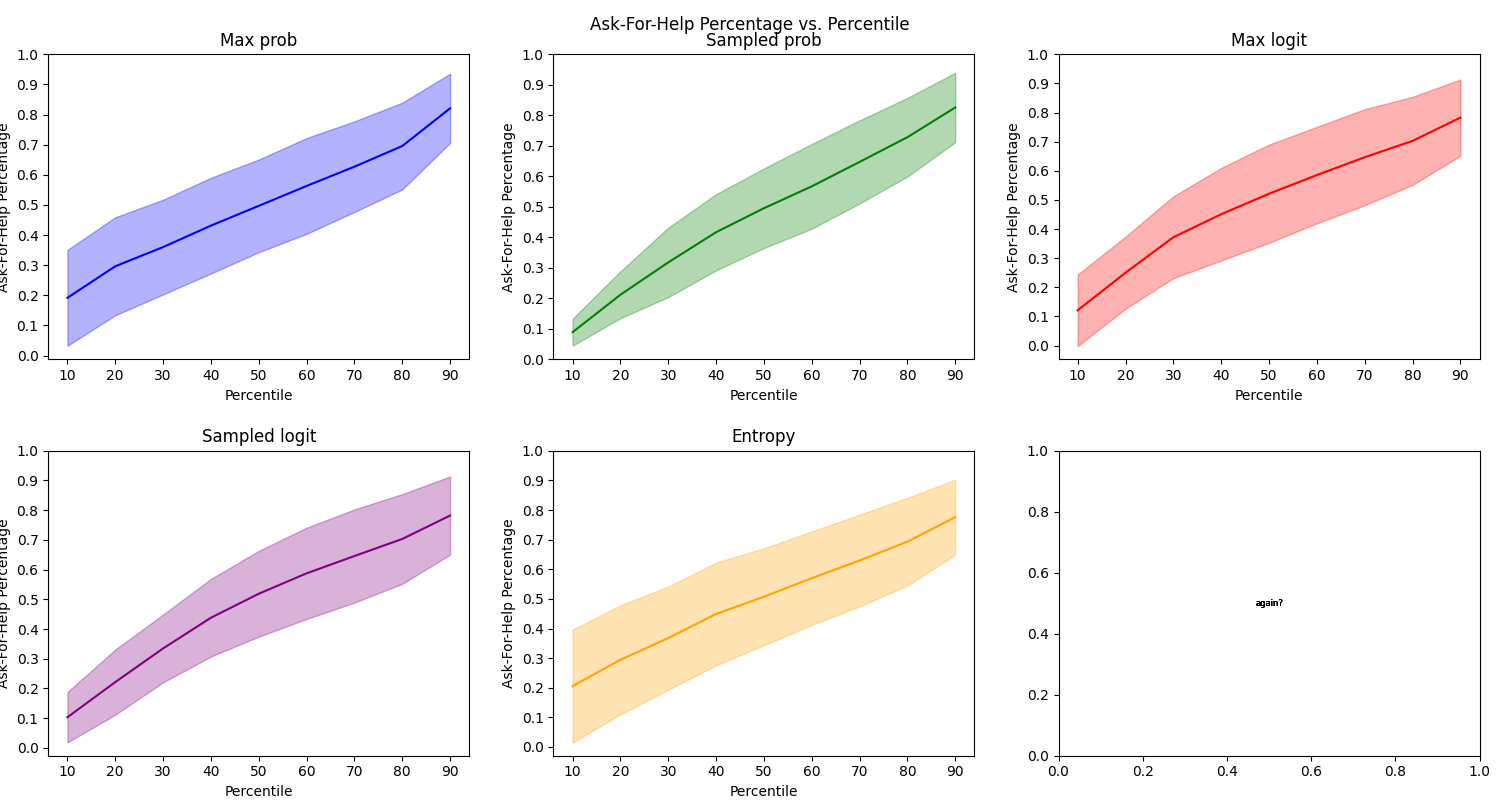
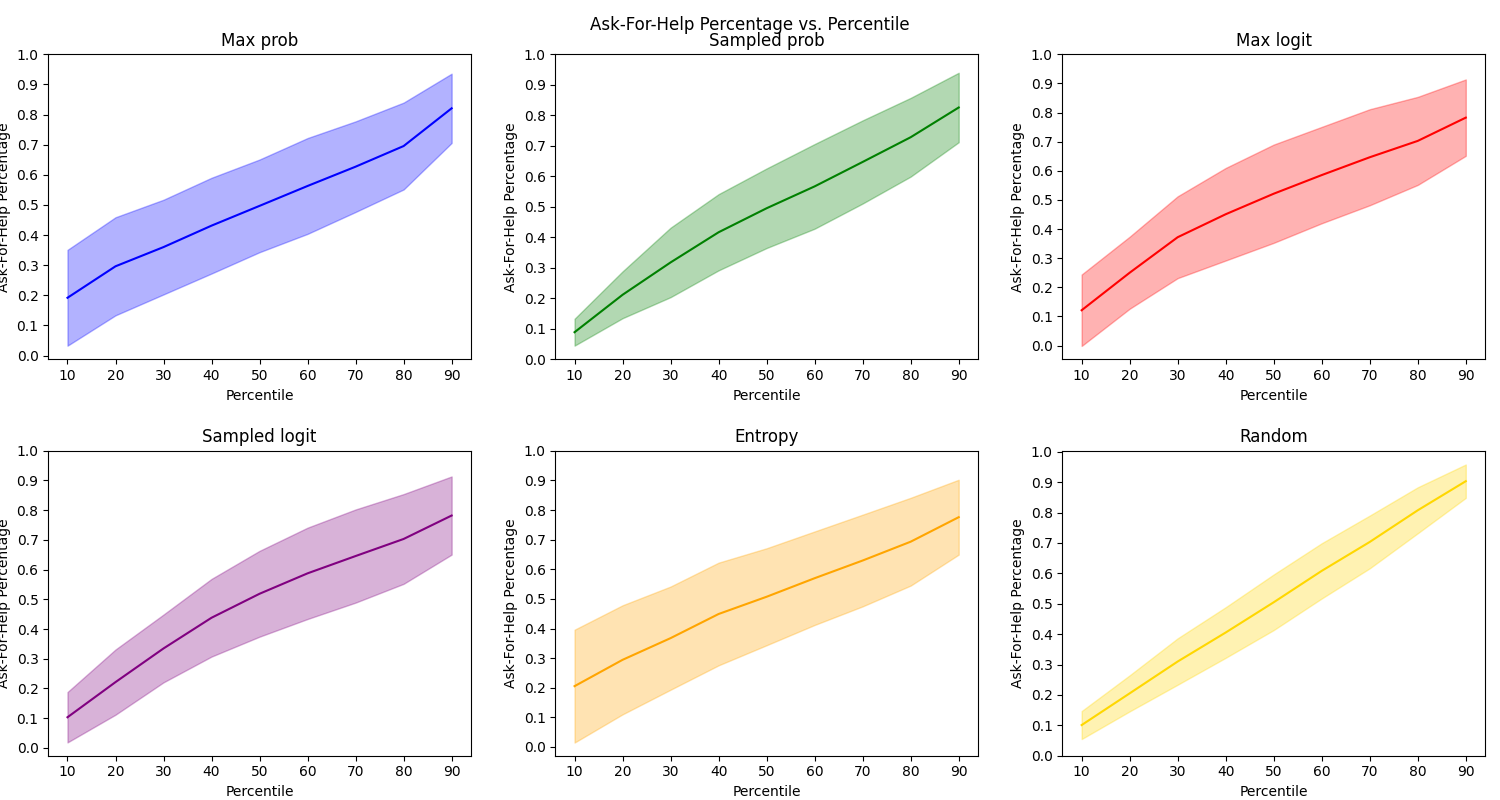
updates

diff --git a/plot_ask_for_help_plots.py b/plot_ask_for_help_plots.py
@@ -9,11 +9,13 @@ import re
 PLOT_PERF_VS_PERC = 1  # performance vs percentile
 PLOT_PROP_VS_PERC = 2  # proportion of asking for help vs percentile
 PLOT_PERF_VS_PROP = 3  # performance vs proportion of asking for help
-PLOT_COST_BREAKEVEN = 4  # how many times ask for help to break even penalties
+PLOT_PROP_VS_TIME = 4  # proportion of asking for help vs run timestep
+PLOT_COST_BREAKEVEN = 5  # how many times ask for help to break even penalties
 
 
 parser = argparse.ArgumentParser()
-parser.add_argument("--plots", "-p", type = int, nargs = "+", default = [1, 2, 3, 4])
+parser.add_argument("--plots", "-p", type = int, nargs = "+", default = [1, 2, 3, 4, 5])
+parser.add_argument("--bucketed", "-b", action = "store_true")  # only applies to plot 3!
 parser.add_argument("--prefix", type = str, default = "receive_help")
 parser.add_argument("--suffix", type = str, default = "")
 args = parser.parse_args()
@@ -42,19 +44,21 @@ def inf_list_eval(list_str):
 
 
 quant_eval_file_name = "AAA_quant_eval_model_200015872.txt"
-colors = {"max prob": "blue", "sampled prob": "green", "max logit": "red", "sampled logit": "purple", "entropy": "orange"}
-helped_logs = {"max prob": {}, "sampled prob": {}, "max logit": {}, "sampled logit": {}, "entropy": {}}
+colors = {"max prob": "blue", "sampled prob": "green", "max logit": "red", "sampled logit": "purple", "entropy": "orange", "random": "gold"}
+helped_logs = {"max prob": {}, "sampled prob": {}, "max logit": {}, "sampled logit": {}, "entropy": {}, "random": {}}
 log_dir = "logs/procgen/coinrun_aisc"
 for exp_dir in os.listdir(log_dir):
     # CHANGE HERE #
-    if exp_dir.startswith("receive") and exp_dir.endswith("unique_actions"):
+    if exp_dir.startswith("receive") and "unique_actions" not in exp_dir:
         perc = int(re.search(r"(\d+)", exp_dir).group(1))
         if "ent" in exp_dir:
             log_key = "entropy"
         elif "max" in exp_dir:
             log_key = "max prob" if "prob" in exp_dir else "max logit"
-        else:
+        elif "sample" in exp_dir:
             log_key = "sampled prob" if "prob" in exp_dir else "sampled logit"
+        else:
+            log_key = "random"
         render_logs = os.listdir(os.path.join(log_dir, exp_dir))
         helped_logs[log_key][perc] = os.path.join(log_dir, exp_dir, sorted(render_logs)[-1])  # always get last/most updated one
 
@@ -88,12 +92,15 @@ if PLOT_PERF_VS_PERC in args.plots:
 
 
 percentiles = range(10, 91, 10)
+run_portions = [round(k, 1) for k in np.arange(0.1, 1.01, 0.1)]
 if PLOT_PERF_VS_PERC in args.plots:
     fig1, axes1 = plt.subplots(2, 3, figsize = (15, 8))
 if PLOT_PROP_VS_PERC in args.plots:
     fig2, axes2 = plt.subplots(2, 3, figsize = (15, 8))
 if PLOT_PERF_VS_PROP in args.plots:
     fig3, axes3 = plt.subplots(2, 3, figsize = (15, 8))
+if PLOT_PROP_VS_TIME in args.plots:
+    fig4, axes4 = plt.subplots(2, 3, figsize = (15, 8))
 
 i = 0
 mega_mean_timestep_achieved = []
@@ -102,6 +109,7 @@ for metric in helped_logs:
     rew_by_perc = []
     adj_rew_by_perc = []
     help_props_by_perc = []
+    help_asks_by_timestep = {round(k, 1): [] for k in run_portions}
     for perc in percentiles:
         with open(os.path.join(helped_logs[metric][perc], quant_eval_file_name), "r") as f:
             evaluation = f.readlines()
@@ -118,6 +126,18 @@ for metric in helped_logs:
                     for helps in help_times:
                         help_props.append(sum(helps) / len(helps))
                     help_props_by_perc.append(help_props)
+            if PLOT_PROP_VS_TIME in args.plots:
+                if "help times" in line.lower():
+                    help_times = eval(evaluation[-1])
+                    num_segments = 10
+                    for helps in help_times:
+                        run_length = len(helps)
+                        segment_length = run_length // num_segments
+                        for k in range(num_segments):
+                            start = k * segment_length
+                            end = start + segment_length if i < num_segments - 1 else run_length
+                            segment = helps[start:end]
+                            help_asks_by_timestep[round((k + 1) / 10, 1)].append(sum(segment) / len(segment))
             if "mean timestep achieved" in line.lower():
                 mega_mean_timestep_achieved.append(int(re.search(r"(\d+)", line).group(1)))
     
@@ -129,7 +149,7 @@ for metric in helped_logs:
         ax.plot(percentiles, rew_means, color = colors[metric], label = f"Reward (mean SD: {round(np.mean(rew_stds), 2)})", linewidth = 2.5)
         # ax.fill_between(percentiles, rew_means - rew_stds, rew_means + rew_stds, color = colors[metric], alpha = 0.3)
         ax.plot(percentiles, adj_rew_means, color = colors[metric], linestyle = "dashed", label = f"Adj. Reward (mean SD: {round(np.mean(adj_rew_stds), 2)})", linewidth = 2.5)
-        # ax.fill_between(percentiles, adj_rew_means - adj_rew_stds, adj_rew_means + adj_rew_stds, color = colors[metric], alpha = 0.3)
+        ax.fill_between(percentiles, adj_rew_means - adj_rew_stds, adj_rew_means + adj_rew_stds, color = colors[metric], alpha = 0.3)
         ax.plot(percentiles, [train_perf_mean] * len(percentiles), color = "black", label = f"Train (SD: {round(train_perf_std, 2)})", linewidth = 2.5)
         # ax.fill_between(percentiles, [train_perf_mean - train_perf_std] * len(percentiles), [train_perf_mean + train_perf_std] * len(percentiles), color = "black", alpha = 0.3)
         ax.plot(percentiles, [test_perf_mean] * len(percentiles), color = "gray", label = f"Test (SD: {round(test_perf_std, 2)})", linewidth = 2.5)
@@ -139,9 +159,9 @@ for metric in helped_logs:
         ax.set_title(metric.capitalize())
         ax.set_xlabel("Percentile")
         ax.set_ylabel("Performance")
-        ax.set_yticks(range(-1, 11))
+        # ax.set_yticks(range(-1, 11))
         ax.legend()
-        axes1[-1][-1].text(0.5, 0.5, "made you look", horizontalalignment = "center", verticalalignment = "center", transform = axes1[-1][-1].transAxes, fontsize = 6)
+        # axes1[-1][-1].text(0.5, 0.5, "made you look", horizontalalignment = "center", verticalalignment = "center", transform = axes1[-1][-1].transAxes, fontsize = 6)
         fig1.suptitle("Performance by Percentile")
         fig1.tight_layout()
         fig1.subplots_adjust(hspace = 0.3, wspace = 0.2)
@@ -160,7 +180,7 @@ for metric in helped_logs:
         ax.set_xlabel("Percentile")
         ax.set_ylabel("Ask-For-Help Percentage")
         ax.set_yticks(np.arange(0, 1.01, 0.1))
-        axes2[-1][-1].text(0.5, 0.5, "again?", horizontalalignment = "center", verticalalignment = "center", transform = axes2[-1][-1].transAxes, fontsize = 6)
+        # axes2[-1][-1].text(0.5, 0.5, "again?", horizontalalignment = "center", verticalalignment = "center", transform = axes2[-1][-1].transAxes, fontsize = 6)
         fig2.suptitle("Ask-For-Help Percentage vs. Percentile")
         fig2.tight_layout()
         fig2.subplots_adjust(hspace = 0.3, wspace = 0.2)
@@ -170,44 +190,82 @@ for metric in helped_logs:
     # 3: Plotting performance vs ask-for-help percentage
     if PLOT_PERF_VS_PROP in args.plots:
         ax = axes3[i // 3][i % 3]
-        flattened_help_props = np.array([help_prop for help_props in help_props_by_perc for help_prop in help_props])
-        flattened_rews = np.array([rew for rews in rew_by_perc for rew in rews])
-        flattened_adj_rews = np.array([adj_rew for adj_rews in adj_rew_by_perc for adj_rew in adj_rews])
-        # sorted_idx = np.argsort(flattened_help_props)
-        # flattened_help_props = flattened_help_props[sorted_idx]
-        # flattened_rews = flattened_rews[sorted_idx]
-        # flattened_adj_rews = flattened_adj_rews[sorted_idx]
-        # ax.scatter(flattened_help_props, flattened_rews, color = colors[metric], label = f"Reward")
-
-        # every = 5
-        # ax.scatter(flattened_help_props[::every], flattened_adj_rews[::every], color = colors[metric], marker = "+", label = f"Adj. Reward")
-
-        bucket_edges = np.linspace(0, 1, 21)
-        bucket_indices = np.digitize(flattened_help_props, bucket_edges)
-        bucket_rew_means = []
-        bucket_adj_rew_means = []
-        for k in range(1, len(bucket_edges)):
-            bucket_mask = bucket_indices == k
-            if np.any(bucket_mask):
-                bucket_rew_means.append(np.mean(flattened_rews[bucket_mask]))
-                bucket_adj_rew_means.append(np.mean(flattened_adj_rews[bucket_mask]))
-            else:
-                bucket_rew_means.append(np.nan)
-                bucket_adj_rew_means.append(np.nan)
-        bucket_centers = (bucket_edges[:-1] + bucket_edges[1:]) / 2
-        ax.plot(bucket_centers, bucket_rew_means, color = colors[metric], linestyle = "solid", label = f"Reward")
-        ax.plot(bucket_centers, bucket_adj_rew_means, color = colors[metric], linestyle = "dashed", label = f"Adj. Reward")
+        if args.bucketed:
+            # (x, y)_i = (average AFHP for percentile i, average performance for percentile i)
+            afhp_means, afhp_stds = get_mean_and_std_nested(help_props_by_perc)
+            rew_means, rew_stds = get_mean_and_std_nested(rew_by_perc)
+            adj_rew_means, adj_rew_stds = get_mean_and_std_nested(adj_rew_by_perc)
+            ax.plot(afhp_means, rew_means, color = colors[metric], label = f"Reward (mean SD: {np.round(np.mean(rew_stds), 2)})")
+            # ax.fill_between(afhp_means, rew_means - rew_stds, rew_means + rew_stds, color = colors[metric], alpha = 0.3)
+            ax.plot(afhp_means, adj_rew_means, color = colors[metric], linestyle = "dashed", label = f"Adj. Reward (mean SD: {np.round(np.mean(adj_rew_stds), 2)})")
+            ax.fill_between(afhp_means, adj_rew_means - adj_rew_stds, adj_rew_means + adj_rew_stds, color = colors[metric], alpha = 0.3)
+            # bucket_edges = np.linspace(0, 1, 21)
+            # bucket_indices = np.digitize(flattened_help_props, bucket_edges)
+            # bucket_rew_means = []
+            # bucket_adj_rew_means = []
+            # bucket_rew_stds = []
+            # bucket_adj_rew_stds = []
+            # for k in range(1, len(bucket_edges)):
+                # bucket_mask = bucket_indices == k
+                # if np.any(bucket_mask):
+                    # bucket_rew_means.append(np.mean(flattened_rews[bucket_mask]))
+                    # bucket_rew_stds.append(np.std(flattened_rews[bucket_mask]))
+                    # bucket_adj_rew_means.append(np.mean(flattened_adj_rews[bucket_mask]))
+                    # bucket_adj_rew_stds.append(np.std(flattened_adj_rews[bucket_mask]))
+                # else:
+                    # print("No datapoint for ask-for-help percentage", k)
+                    # bucket_rew_means.append(np.nan)
+                    # bucket_rew_stds.append(np.nan)
+                    # bucket_adj_rew_means.append(np.nan)
+                    # bucket_adj_rew_stds.append(np.nan)
+            # bucket_rew_means = np.array(bucket_rew_means)
+            # bucket_rew_stds = np.array(bucket_rew_stds)
+            # bucket_adj_rew_means = np.array(bucket_adj_rew_means)
+            # bucket_adj_rew_stds = np.array(bucket_adj_rew_stds)
+            # bucket_centers = (bucket_edges[:-1] + bucket_edges[1:]) / 2
+            # ax.plot(bucket_centers, bucket_rew_means, color = colors[metric], linestyle = "solid", label = f"Reward")
+            # ax.fill_between(bucket_centers, bucket_rew_means - bucket_rew_stds, bucket_rew_means + bucket_rew_stds, color = colors[metric], alpha = 0.3)
+            # ax.plot(bucket_centers, bucket_adj_rew_means, color = colors[metric], linestyle = "dashed", label = f"Adj. Reward")
+            # ax.fill_between(bucket_centers, bucket_adj_rew_means - bucket_adj_rew_stds, bucket_adj_rew_means + bucket_adj_rew_stds, color = colors[metric], alpha = 0.3)
+        else:
+            flattened_help_props = np.array([help_prop for help_props in help_props_by_perc for help_prop in help_props])
+            flattened_rews = np.array([rew for rews in rew_by_perc for rew in rews])
+            flattened_adj_rews = np.array([adj_rew for adj_rews in adj_rew_by_perc for adj_rew in adj_rews])
+            sorted_idx = np.argsort(flattened_help_props)
+            flattened_help_props = flattened_help_props[sorted_idx]
+            flattened_rews = flattened_rews[sorted_idx]
+            flattened_adj_rews = flattened_adj_rews[sorted_idx]
+            # ax.scatter(flattened_help_props, flattened_rews, color = colors[metric], label = f"Reward")
+            every = 5
+            ax.scatter(flattened_help_props[::every], flattened_adj_rews[::every], color = colors[metric], marker = "+", label = f"Adj. Reward")
         ax.set_title(metric.capitalize())
         ax.set_xlabel("Ask-For-Help Percentage")
         ax.set_ylabel("Performance")
         # ax.set_yticks(range(-10, 11))
         ax.legend()
-        axes3[-1][-1].text(0.5, 0.5, "( ͡° ͜ʖ ͡°)", horizontalalignment = "center", verticalalignment = "center", transform = axes3[-1][-1].transAxes, fontsize = 5)
+        # axes3[-1][-1].text(0.5, 0.5, "( ͡° ͜ʖ ͡°)", horizontalalignment = "center", verticalalignment = "center", transform = axes3[-1][-1].transAxes, fontsize = 5)
         fig3.suptitle("Performance vs. Ask-For-Help Percentage")
         fig3.tight_layout()
         fig3.subplots_adjust(hspace = 0.3, wspace = 0.2)
-        fig3.savefig(f"{args.prefix}_performance_by_help_percentage{args.suffix}.png")
+        fig3.savefig(f"{args.prefix}_performance_by_help_percentage{'_bucketed' if args.bucketed else ''}{args.suffix}.png")
         print("Done one plot of", PLOT_PERF_VS_PROP)
+
+    # 4: Plotting proportion of asking for help vs run timestep
+    if PLOT_PROP_VS_TIME in args.plots:
+        ax = axes4[i // 3][i % 3]
+        asks_mean = np.array([np.mean(asks) for _, asks in help_asks_by_timestep.items()])
+        asks_std = np.array([np.std(asks) for _, asks in help_asks_by_timestep.items()])
+        ax.plot(run_portions, asks_mean, color = colors[metric])
+        ax.fill_between(run_portions, asks_mean - asks_std, asks_mean + asks_std, color = colors[metric], alpha = 0.3)
+        ax.set_title(metric.capitalize())
+        ax.set_xlabel("Run Portion")
+        ax.set_ylabel("Ask-For-Help Percentage")
+        # axes4[-1][-1].text(0.5, 0.5, "hey there", horizontalalignment = "center", verticalalignment = "center", transform = axes4[-1][-1].transAxes, fontsize = 5)
+        fig4.suptitle("Ask-For-Help Percentage by Segment of Run")
+        fig4.tight_layout()
+        fig4.subplots_adjust(hspace = 0.3, wspace = 0.2)
+        fig4.savefig(f"{args.prefix}_help_percentage_by_timestep{args.suffix}.png")
+        print("Done one plot of", PLOT_PROP_VS_TIME)
 
     i += 1
 

diff --git a/full_pipeline.py b/full_pipeline.py
@@ -1,0 +1,50 @@
+import subprocess
+import re
+import time
+
+
+def run_render_script(exp_name, env_name, model_file, save_run = False, ood_metric = None, risk = None, percentile_dir = None, expert_model_file = None, expert_cost = 0, switching_cost = 0):
+    command = [
+        "python3", "render.py",
+        "--exp_name", exp_name,
+        "--env_name", env_name,
+        "--distribution_mode", "hard",
+        "--param_name", "hard-plus",
+        "--model_file", model_file,
+        "--select_mode", "sample",
+        "--quant_eval",
+        "--seed", "8888"
+    ]
+    if save_run:
+        command.append("--save_run")
+    if ood_metric is not None:
+        assert risk is not None and percentile_dir is not None, "Check risk and percentile_dir"
+        command.extend(["--ood_metric", ood_metric])
+        command.extend(["--risk", risk])
+        command.extend(["--percentile_dir", percentile_dir])
+    if expert_model_file is not None:
+        command.extend(["--expert_cost", expert_cost])
+        command.extend(["--switching_cost", switching_cost])
+    
+    result = subprocess.run(command, capture_output = True, text = True)
+    if result.returncode != 0:
+        print(f"Error running render.py: {result.stderr}")
+        return None
+    
+    logdir = None
+    for line in result.stdout.splitlines():
+        if "Logging dir:" in line:
+            logdir = line.split("Logging dir:\n")[-1].strip()
+            break
+    return logdir
+
+def main():
+    exp_name = "debug"
+    env_name = "coinrun"
+    model_file = "logs/train/coinrun/og_actions/2024-05-25__19-35-47__seed_8888/model_200015872.pth"
+    logdir = run_render_script(exp_name, env_name, model_file)
+    print("LOGDIR")
+    print(logdir)
+
+if __name__ == "__main__":
+    main()
